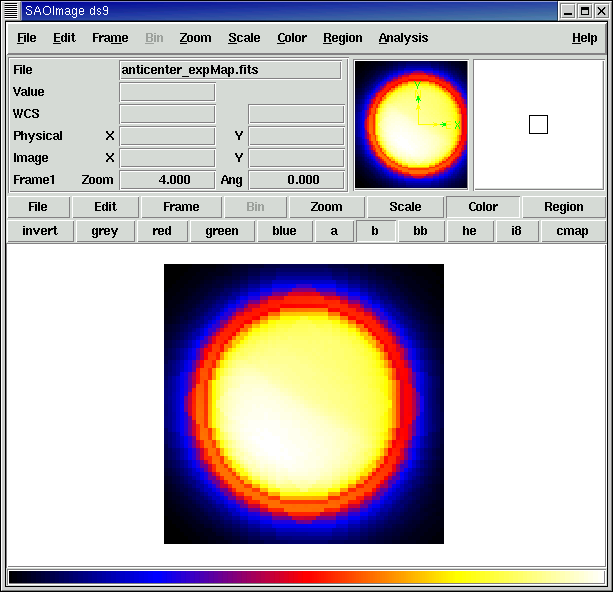
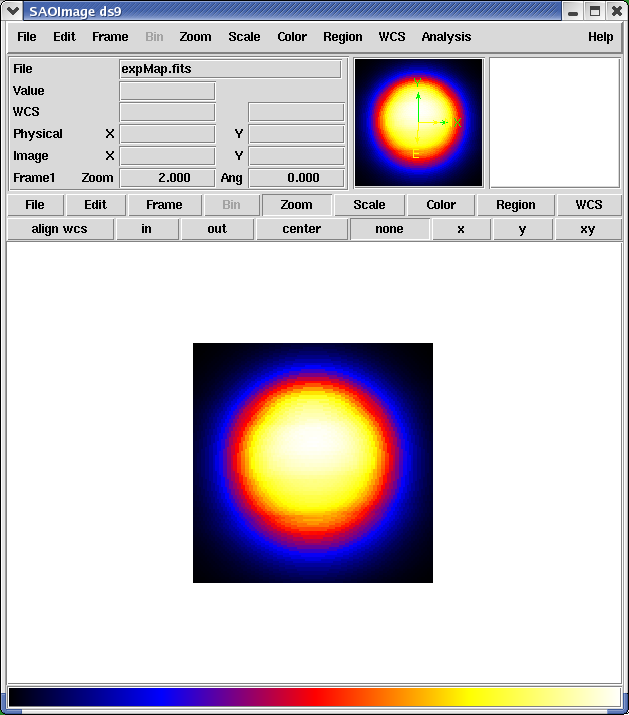
begin updating tutorial documentation

diff --git a/Likelihood/src/tutorial.h b/Likelihood/src/tutorial.h
@@ -5,10 +5,15 @@
 
    In order to illustrate how to use the likelihood software, this
    narrative is provided and gives a step-by-step description for
-   performing an analysis on a highly simplified data set.
+   performing a relatively simple analysis.  We will assume that you
+   already have event (FT1) and spacecraft (FT2) data files in hand.
 
    Here are each of the steps:
-   - @ref createData (or retrieve the real thing from the web server.)
+
+   - @ref makeSubselections Since there is a computational overhead
+          for each event associated with each diffuse component, it is
+          useful to filter out any events that are not within the
+          extraction region used for the analysis.
    - @ref makeCountsMaps These simple FITS images let us see what 
           we've got and help to pick out obvious candidate sources.
    - @ref defineROI This is the extraction region in photon direction, 
@@ -26,177 +31,136 @@
           finding weaker sources after the stronger sources have
           been modeled.
 
-   @section createData Create Simulated Data Using obsSim
-
-   In practice, the data to be analyzed will be downloaded from the 
-   <a href="http://glast.gsfc.nasa.gov/cgi-bin/ssc/U1/D1WebQuery.cgi">
-   GSSC server</a>.  However, here we will run the @b obsSim application to
-   generate data with a known set of sources so that we can compare
-   the results of our fits to the input parameters of the source model
-   that was fed to the simulation.
-   \n\n
-   The first step is to create a list of sources.  The sources that
-   are provided for simulation are given in the xml files in the <a
-   href="http://glast.stanford.edu/cgi-bin/cvsweb/observationSim/xml/?cvsroot=CVS_SLAC">observationSim/xml</a>
-   subdirectory.  Sources in the <a
-   href="http://glast.stanford.edu/cgi-bin/cvsweb/observationSim/xml/source_library.xml?cvsroot=CVS_SLAC">source_library.xml</a>
-   and <a
-   href="http://glast.stanford.edu/cgi-bin/cvsweb/observationSim/xml/3EG_catalog_20-1e6MeV.xml?cvsroot=CVS_SLAC">3EG_catalog_20-1e6MeV.xml</a>
-   files are provided by default.  (Note that one should only use
-   photon sources from the former with @b obsSim ).  If one wishes to
-   use sources from some of the other xml files in <a
-   href="http://glast.stanford.edu/cgi-bin/cvsweb/observationSim/xml/?cvsroot=CVS_SLAC">observationSim/xml</a>
-   or from some other source model xml file, there is a hidden
-   parameter in the <a
-   href="http://glast.stanford.edu/cgi-bin/cvsweb/observationSim/data/obsSim.par?cvsroot=CVS_SLAC">obsSim.par</a>
-   file (<a href="http://www.slac.stanford.edu/exp/glast/ground/software/RM/documentation/ScienceTools/ScienceTools-v0r5/Likelihood/v2r6p5/userguide.html">What's a .par file?</a>) that will allow one to specify that file.  
-   We will see how to
-   do this when we rerun @b obsSim again below.  
-   \n\n
-   The list of sources should be put into a file, which we will call
-   "source_names.dat".  For this simple example, we choose the
-   following sources:
+   @section makeSubselections Make Subselections from the Event Data.
+   For this tutorial, we will use data generated using @b obsSim for a
+   model comprising the Third EGRET (3EG) catalog sources, Galactic diffuse,
+   and extragalactic diffuse emission for a simulation time of one
+   day.  Since we used @b obsSim, we can put data from each component
+   into a separate FT1 file:
    @verbatim
-   diffuse-100mev
-   anticenter
+   noric13[jchiang] ls -l *events*fits
+   -rw-rw-r--    1 jchiang  glast-data  2894400 Oct 11 15:22 eg_diffuse_events_0000.fits
+   -rw-rw-r--    1 jchiang  glast-data  7243200 Oct 11 15:26 galdiffuse_events_0000.fits
+   -rw-rw-r--    1 jchiang  glast-data  1088640 Oct 11 15:20 ptsrcs_events_0000.fits
+   noric13[jchiang] 
    @endverbatim
-   The first source is an isotropic diffuse component intended to
-   model the extragalactic diffuse emission measured by EGRET.  The
-   second source is actually a composite of the three brightest
-   sources in the Galactic anti-center region.  
-   An individual source is defined in the xml libraries like this:
+   We will consider data in the Virgo region within a 25 degree acceptance cone of
+   the blazar 3C 279.  Here we apply @b dataSubselector to the point source data:
    @verbatim
-   <!-- Geminga, from the 3EG catalog -->
-   <source name="Geminga" flux="0.03529">
-       <spectrum escale="MeV">
-           <particle name="gamma"> 
-               <power_law emin="100." emax="100000." gamma="1.66"/>
-           </particle>
-           <celestial_dir ra="98.49" dec="17.86"/>
-       </spectrum>
-   </source>
-   @endverbatim
-   and composite sources, such as "anticenter", are defined like this:
-   @verbatim
-   <!-- Strong point sources in the Galactic anticenter region -->
-   <source name = "anticenter">
-       <nestedSource sourceRef="Crab" />
-       <nestedSource sourceRef="Geminga" />
-       <nestedSource sourceRef="PKS0528" />
-   </source>
-   @endverbatim
-   It should be noted that these particular sources will only produce
-   photons with energies greater than 100 MeV.  This will be very
-   important for how we define the ROI later on.
-   \n\n
-   As a convenience, a composite source "all_3EG_sources" is provided in the <a
-   href="http://glast.stanford.edu/cgi-bin/cvsweb/observationSim/xml/3EG_catalog_20-1e6MeV.xml?cvsroot=CVS_SLAC">3EG_catalog_20-1e6MeV.xml</a>
-   model file.
-   \n\n
-   Once the desired sources are listed in the target file, we can now
-   run @b obsSim to generate some data.  Be sure the <a
-   href="http://glast.stanford.edu/cgi-bin/cvsweb/observationSim/data/obsSim.par?cvsroot=CVS_SLAC">obsSim.par</a> file
-   is in the directory pointed to by the PFILES environment variable; or
-   if PFILES is unset, be sure it is in your current working directory.
-   Here's our @b obsSim session:
-   @verbatim
-   > time obsSim.exe 
-   File containing source names [source_names.dat] : 
-   Number of events (or simulation time in seconds) <1 - 4e7> [86400] : 
-   Use number of events as simulation time? [yes] : 
-   Response functions to use <FRONT/BACK|FRONT|BACK> [FRONT/BACK] : 
-   Prefix for output files [diffuse_test] : test
-   Pointing history file [none] : 
-   Generating events for a simulation time of 86400 seconds....
+   noric13[jchiang] ~/ST_new/dataSubselector/v2r1/rh9_gcc32/dataSubselector.exe
+   Input FT1 file [Crab_front_events_0000.fits] : ptsrcs_events_0000.fits
+   Output FT1 file [Crab_front_events_filtered.fits] : ptsrcs_events_filtered.fits
+   RA for new search center (degrees) <0 - 360> [83.57] : 193.98
+   Dec for new search center (degrees) <-90 - 90> [22.01] : -5.82
+   radius of new search region (degrees) <0 - 180> [20] : 25
+   Longitude coordinate lower limit (degrees) <0 - 360> [0] : 
+   Longitude coordinate upper limit (degrees) <0 - 360> [360] : 
+   Latitude coordinate lower limit (degrees) <-90 - 90> [-90] : 
+   Latitude coordinate upper limit (degrees) <-90 - 90> [90] : 
+   Coordiate system <CEL|GAL> [CEL] : 
+   start time (MET in s) [0] : 
+   end time (MET in s) [0] : 
+   lower energy limit (MeV) [20] : 
+   upper energy limit (MeV) [0] : 3e5    
+   first conversion layer <0 - 15> [0] : 
+   last conversion layer <0 - 15> [11] : 15
+   minimum theta value (degrees) <0 - 180> [0] : 
+   maximum theta value (degrees) <0 - 180> [0] : 
+   minimum phi value (degrees) <0 - 360> [0] : 
+   maximum phi value (degrees) <0 - 360> [0] : 
+   minimum probablilty that event is a gamma ray <0 - 1> [0] : 
+   maximum probablilty that event is a gamma ray <0 - 1> [0] : 
+   minimum zenith angle value (degrees) <0 - 180> [0] : 
+   maximum zenith angle value (degrees) <0 - 180> [0] : 
+   select only events that passed background cut? [yes] : 
+   select only events that passed PSF cut? [yes] : 
+   select only events that passed energy resolution cut? [yes] : 
    Done.
-   23.600u 0.370s 0:32.75 73.1%    0+0k 0+0io 4561pf+0w
    @endverbatim
+   The @b dataSubselector interface is a bit unwieldy.  The default
+   entries of "0" for most of the parameters means that no selection
+   will be made.  This tool, its interface in particular, is a prime
+   target for refactoring.
 
-   @section makeCountsMaps Make Counts Maps from the Event Files
-   @b obsSim creates the following FITS files:
+   @section makeCountsMaps Make Counts Maps from the Event Files 
+   The next step is to create a simple counts map file to visualize
+   the extraction region we wish to fit.  There are presently three
+   tools available to perform this task: @b evtbin in the @b evtbin
+   package, @b count_map in the @b map_tools package, and @b gtcntsmap
+   in the @b Likelihood package.  For this step, since the event data
+   are contained in three separate FITS files, @b gtcntsmap is the
+   most convenient to use.  We start by creating a file which is a
+   list of the files to be binned, and then we run the tool:
    @verbatim
-   > ls -l test*.fits
-   -rw-rw-r--    1 jchiang  gl        3231360 Dec  7 13:28 test_events_0000.fits
-   -rw-rw-r--    1 jchiang  gl         279360 Dec  7 13:28 test_scData_0000.fits
+   noric13[jchiang] ls -1 *filtered.fits > eventFiles
+   noric13[jchiang] cat eventFiles
+   eg_diffuse_events_filtered.fits
+   galdiffuse_events_filtered.fits
+   ptsrcs_events_filtered.fits
+   noric13[jchiang]  ~/ST_new/Likelihood/v5r1p1/rh9_gcc32/gtcntsmap.exe
+   event file [test_events_0000.fits] : eventFiles
+   spacecraft file [test_scData_0000.fits] : ptsrcs_scData_0000.fits
+   minimum energy (MeV) <20 - 3e5> [30] : 
+   maximum energy (MeV) <20 - 3e5> [2e5] : 
+   number of energy bounds <2 - 40> [21] : 2
+   Right Ascension (or l) of map center (degrees) <0 - 360> [86.4] : 193.98
+   Declination (or b) of map center (degrees) <-90 - 90> [28.9] : -5.82   
+   number of longitude pixels [160] : 200
+   number of latitude pixels [160] : 200
+   pixel size (degrees) <1e-2 - 2> [0.25] : 
+   use Galactic coordinates [no] : 
+   output file name [counts_map.fits] : Virgo_map.fits
+   noric13[jchiang] ds9 Virgo_map.fits
    @endverbatim
-   The first file contains FITS binary tables of the photon events,
-   having been generated for each source, then passed through the
-   instrument response functions (IRFs); and the second contains the
-   spacecraft data --- time stamps, orbit and attitude information, etc.
-   \n\n 
-   Various tools are available for displaying data in FITS files. 
-   One can use ds9 directly to do the binning for you:
-   @verbatim
-   > ds9 "test_events_0000.fits[1][bin=ra,dec]"
-   @endverbatim
-   but here we use the FTOOL @b fcopy and the extended filename syntax
-   of cfitsio to create a counts map file:
-   @verbatim
-   > fcopy "test_events_0000.fits[1][bin ra,dec]" all_sky_1day.fits
-   @endverbatim
-   The <a href="http://glast.gsfc.nasa.gov/ssc/dev/binned_analysis/EventBin_DC1.html">EventBin</a> application, part of the Science Tools
-   distribution, provides capabilities for creating counts maps, in addition
-   to spectra and light curves that are particularly well-suited for LAT 
-   analysis.  In any case, we will use ds9 to view the counts maps:
+   The last command lauches the visualization tool ds9 and produces this
+   display:
 
-   @image html allsky.png all_sky_1day.fits
-   Here is a corresponding image using @ref all3EG.
-   \n\n
-   Since we would like to compare these data against a model and will be
-   concentrating on the Galactic anti-center, let's create a more serviceable
-   FITS file, concentrating on that region:
-   @verbatim
-   > fcopy "test_events_0000.fits[1][bin ra=65:105,dec=2:42]" anticenter_1day.fits
-   @endverbatim
+   @image html Virgo_map.png Virgo_map.fits
 
-   @section defineROI Define the Region-of-Interest 
-   The Region-of-Interest (ROI) comprises a set of selections on photon
+   The green circles indicate the positions of the 3EG point sources
+   within 25 degrees of the location of 3C 279.
+
+   @section defineROI Define the Region-of-Interest The
+   Region-of-Interest (ROI) comprises a set of selections on photon
    arrival time, energy, and direction.  These selections are made in
-   addition to any that are made using the query to the 
-   <a href="http://glast.gsfc.nasa.gov/cgi-bin/ssc/U1/D1WebQuery.cgi">
-   GSSC database</a>
-   or via the 
-   <a href="http://glast.gsfc.nasa.gov/ssc/dev/databases/dataSubselector.html">
-   user-level selection tool</a>.  Unfortunately, because of an
-   oversight in the Likelihood implementation, the ROI
-   selections must @em include any that are made by these other
-   tools.  More precisely, the data-space defined by the ROI must lie
-   entirely within the intersection of the data-spaces defined by these
-   other tools.  For example, if the user-level selection tool selects
-   events within a time interval (t1, t2), then any time intervals
-   defined in the ROI file must lie entirely within (t1, t2).
-   In future releases, this oversight will be corrected.
+   addition to any that are made using the query to the <a
+   href="http://glast.gsfc.nasa.gov/cgi-bin/ssc/U1/D1WebQuery.cgi">
+   GSSC database</a> or via the @b dataSubselector user-level
+   selection tool</a>.  Unfortunately, because of an oversight in the
+   Likelihood implementation, the ROI selections must @em include any
+   that are made by these other tools.  More precisely, the data-space
+   defined by the ROI must lie entirely within the intersection of the
+   data-spaces defined by these other tools.  For example, if the
+   user-level selection tool selects events within a time interval
+   (t1, t2), then any time intervals defined in the ROI file must lie
+   entirely within (t1, t2).  In future releases, this oversight will
+   be corrected.
    \n\n
    Here's the ROI file we will use:
    @verbatim
    <?xml version='1.0' standalone='no'?>
-   <Region-of-Interest title="Anticenter Region">
+   <Region-of-Interest title="Virgo Region">
       <timeInterval start="0"
                     stop="1"
                     unit="days"/>
-      <energies emin="100." 
-                emax="3.1623e5"
+      <energies emin="30." 
+                emax="2e5"
                 unit="MeV"/>
-      <acceptanceCone longitude="180."
-                      latitude="0."
-                      radius="25"
-                      coordsys="Galactic"/>
+      <acceptanceCone longitude="193.98."
+                      latitude="-5.82"
+                      radius="20"
+                      coordsys="J2000"/>
    </Region-of-Interest>
    @endverbatim
    Any number of time intervals can be specified and can be given in
-   units of seconds or days, referenced to the start of the DC1
+   units of "seconds" or "days", referenced to the start of the
    simulation.  Data will be selected from the intersection of
    intervals given.  In future, the GTI extension of the FITS event
-   and spacecraft files will provide this same capability.  We choose
-   a minimum energy of 100 MeV.  This is necessary since the sources
-   we have used in the simulation do not produce events with energies
-   less than 100 MeV. (Note that we really should consider energy
-   dispersion in our choice of emin.)  A similar consideration would
-   have to be made if the user-level selection tool also applied an
-   energy cut.  Lastly, an acceptance cone defines the part of the
-   sky from which photons will be accepted.  The "coordsys" attribute
-   can either be "Galactic" or "J2000"; the "radius" attribute gives
-   the half-opening angle of the acceptance cone; and units are in
+   file(s) will provide this same capability. A similar consideration
+   applies to energy and acceptance cone cuts made, for example, using
+   @b dataSubselector.  The "coordsys" attribute can either be
+   "Galactic" or "J2000"; the "radius" attribute gives the
+   half-opening angle of the acceptance cone; and units are in
    degrees.
 
    @section makeExposureMap Make an Exposure Map for a Given ROI
@@ -221,34 +185,63 @@
    separate exposure maps must be made for every distinct ROI file,
    if, for example, one wants to subdivide an observation to look for
    secular flux variations from a particular source or sources.
+
+   There are two separate tools for generating exposure maps.  The
+   first is @b makeExposureCube.  This tool creates an all-sky map of
+   the integrated livetime as a function of inclination with respect
+   to the LAT z-axis.  It is otherwise identical to the @b
+   exposure_cube application in the @b map_tools package, except that
+   makeExposureCube also applies the time-interval cuts specified in
+   the ROI file.  
+   @verbatim
+   noric13[jchiang] ~/ST_new/Likelihood/v5r1p1/rh9_gcc32/makeExposureCube.exe 
+   Spacecraft data file [single_src_scData_0000.fits] : ptsrcs_scData_0000.fits
+   Output file [!expcube_1_day.fits] : 
+   Step size in cos(theta) <0. - 1.> [0.25] : 0.05
+   Pixel size (degrees) [10] : 1.
+   ROI file [anticenter_Roi.xml] : RoiCuts.xml
+   Creating a exposure hypercube, size 1231200=360 x 180 x 19
+   Working on file ptsrcs_scData_0000.fits
+   .....................!
+   noric13[jchiang] 
+   @endverbatim
+   Since @b makeExposureCube produces an all-sky map, the output FITS
+   file of this tool can be used to generating exposure maps for other
+   regions-of-interest that have the same time interval selections.
+   Although the @expMap application (see below) can generate exposure
+   maps for Likelihood without an exposure hypercube map, using one
+   affords a substantial time savings.
    \n\n
    We create the exposure map using the @b expMap tool:
    @verbatim
-   > time expMap.exe
-   ROI cuts file [RoiCuts.xml] : 
-   Spacecraft file [test_scData_0000.fits] : 
-   Response functions to use <FRONT/BACK|FRONT|BACK> [FRONT/BACK] : 
-   Radius of the source region (in degrees) [35] : 
-   Number of longitude points <2 - 1000> [70] : 
-   Number of latitude points <2 - 1000> [70] : 
-   Number of energies <2 - 100> [10] : 
-   Exposure file [anticenter_expMap.fits] : 
+   noric13[jchiang] ~/ST_new/Likelihood/v5r1p1/rh9_gcc32/expMap.exe 
+   ROI cuts file [../data/anticenter_Roi.xml] : RoiCuts.xml
+   Spacecraft file [../data/single_src_scData_0000.fits] : ptsrcs_scData_0000.fits
+   Response functions to use <FRONT/BACK|FRONT|BACK|GLAST25> [GLAST25] : FRONT/BACK
+   Use energy dispersion? [no] : 
+   Radius of the source region (in degrees) [30] : 
+   Number of longitude points <2 - 1000> [10] : 120
+   Number of latitude points <2 - 1000> [10] : 120
+   Number of energies <2 - 100> [5] : 20
+   Exposure hypercube file [none] : expcube_1_day.fits
+   Exposure file [test1.fits] : expMap.fits
+   Loaded exposure map from a FITS file expcube_1_day.fits, size is 1231200
    Computing the ExposureMap....................!
-   464.390u 1.110s 8:25.68 92.0%	0+0k 0+0io 4071pf+0w
+   noric13[jchiang] 
    @endverbatim
-   Note that we have chosen a 35 degree radius "source region", while
-   the ROI acceptance cone radius is 25 degrees.  This is necessary to
+   Note that we have chosen a 30 degree radius "source region", while
+   the ROI acceptance cone radius is 20 degrees.  This is necessary to
    ensure that photons from sources outside the ROI are accounted for,
    at least partially, owing to the size of the instrument
-   point-spread function.  Half-degree pixels are a nominal choice;
+   point-spread function. Half-degree pixels are a nominal choice;
    smaller pixels should result in a more accurate evaluation of the
    diffuse source fluxes but will also make the exposure map
    calculation itself lengthier.  The number of energies specifies the
    number of logarithmically spaced intervals bounded by the energy
-   range given in the ROI cuts xml file.  Here is one image plane of the
-   exposure map we just created:
+   range given in the ROI cuts xml file.  Here is one image plane of
+   the exposure map we just created:
 
-   @image html expMap.png anticenter_expMap.fits
+   @image html expMap.png expMap.fits
 
    @section sourceModelFile Create a Source Model XML File
    Like the ROI file, the @b likelihoodApp reads the source model
